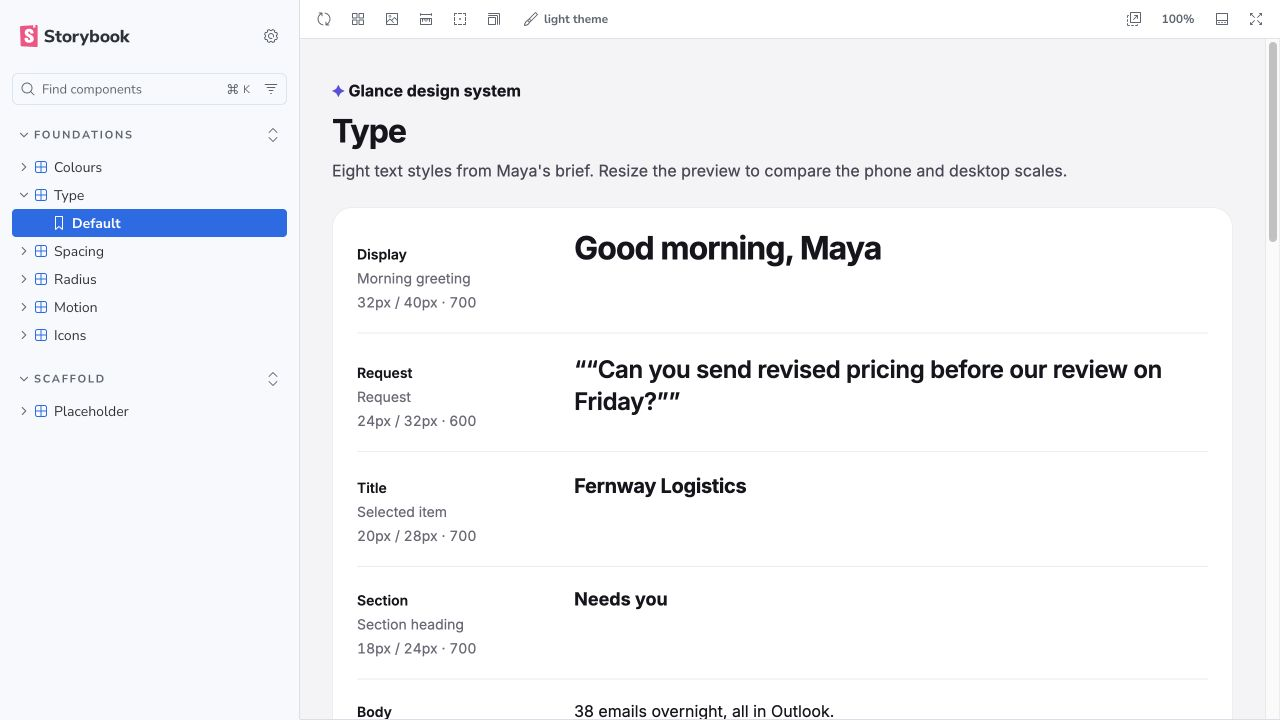
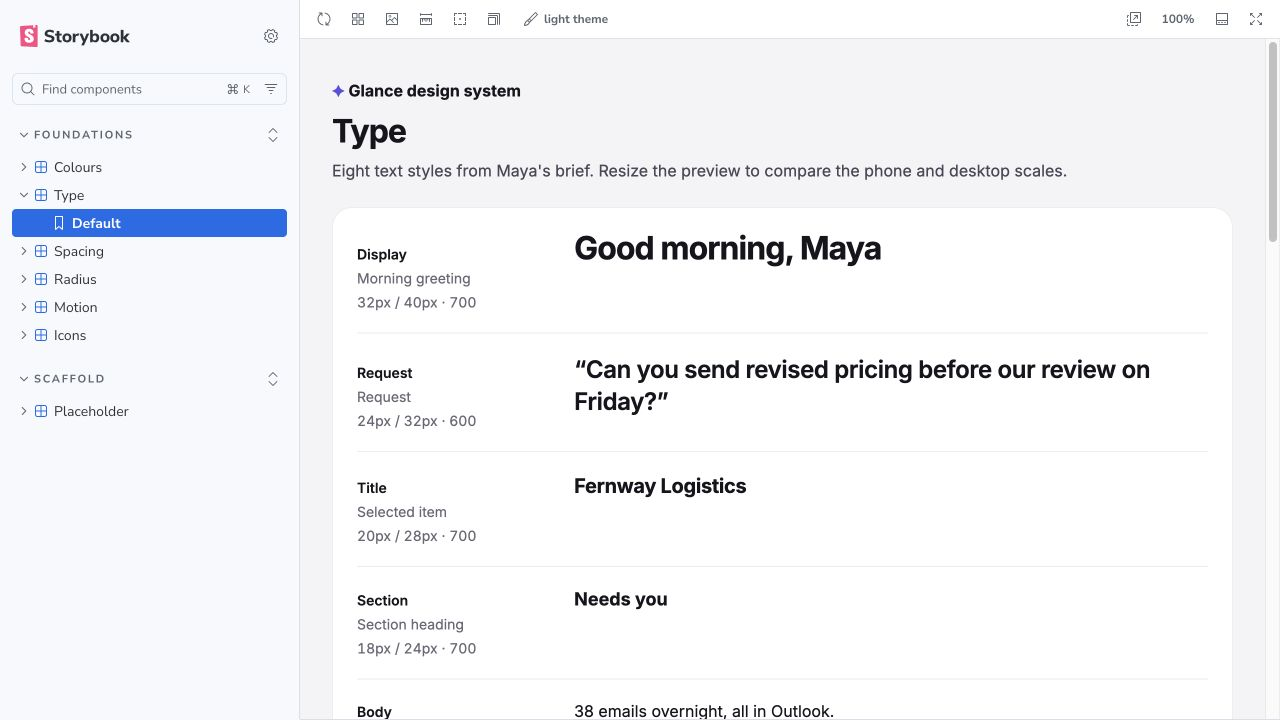
fix(ds): render the request sample verbatim

Changed region(s): [[0.4375, 0.4889, 0.9062, 0.55]]

diff --git a/src/design-system/foundations/Type.stories.tsx b/src/design-system/foundations/Type.stories.tsx
@@ -15,10 +15,7 @@ const specimens = [
   {
     variant: 'request',
     usage: 'Request',
-    sample:
-      renewal.request.type === 'quote'
-        ? `“${renewal.request.text}”`
-        : `✦ ${renewal.request.text}`,
+    sample: renewal.request.text,
   },
   { variant: 'title', usage: 'Selected item', sample: renewal.name },
   { variant: 'section', usage: 'Section heading', sample: 'Needs you' },
